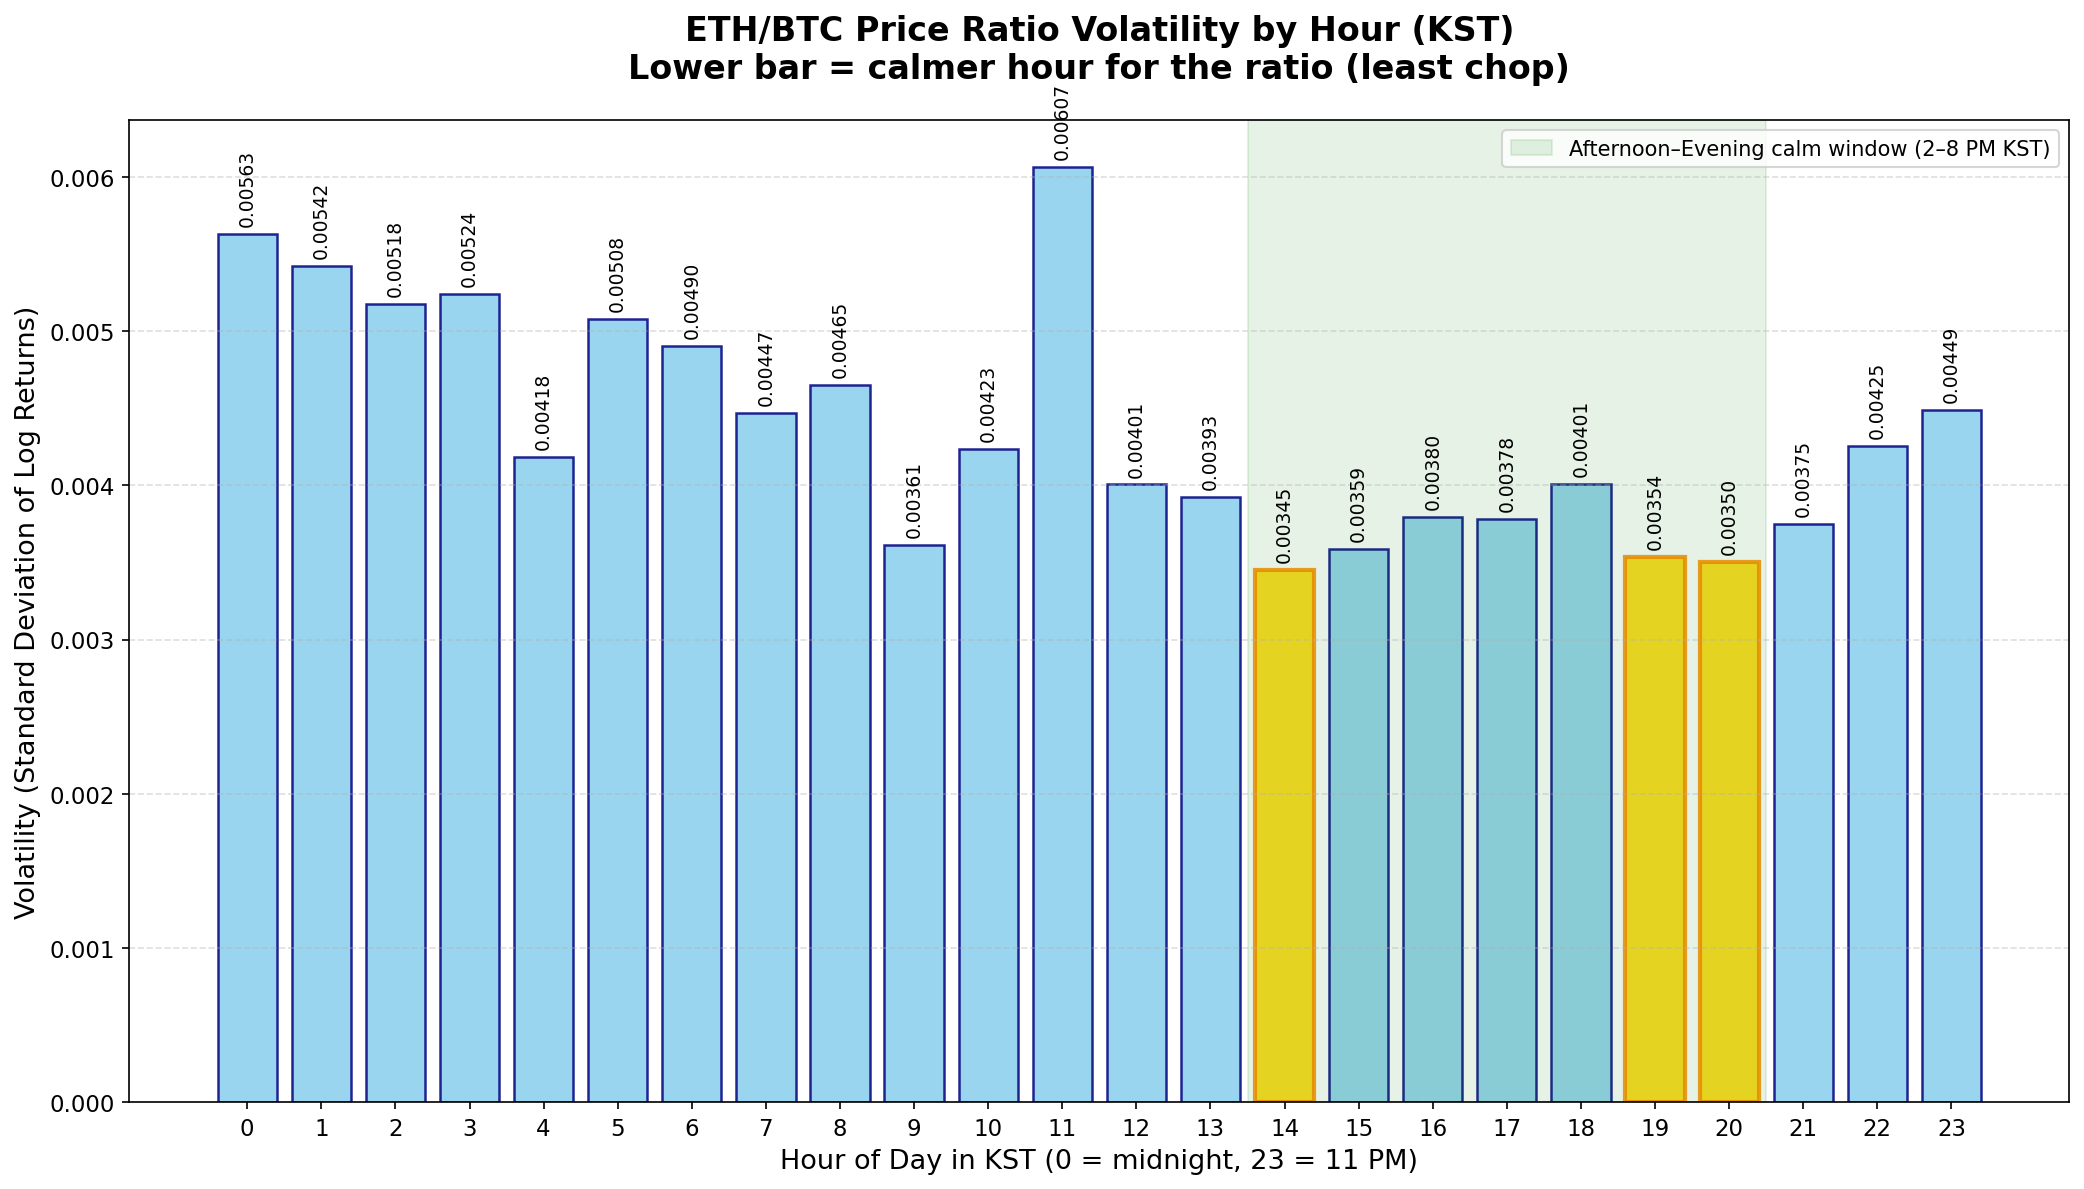
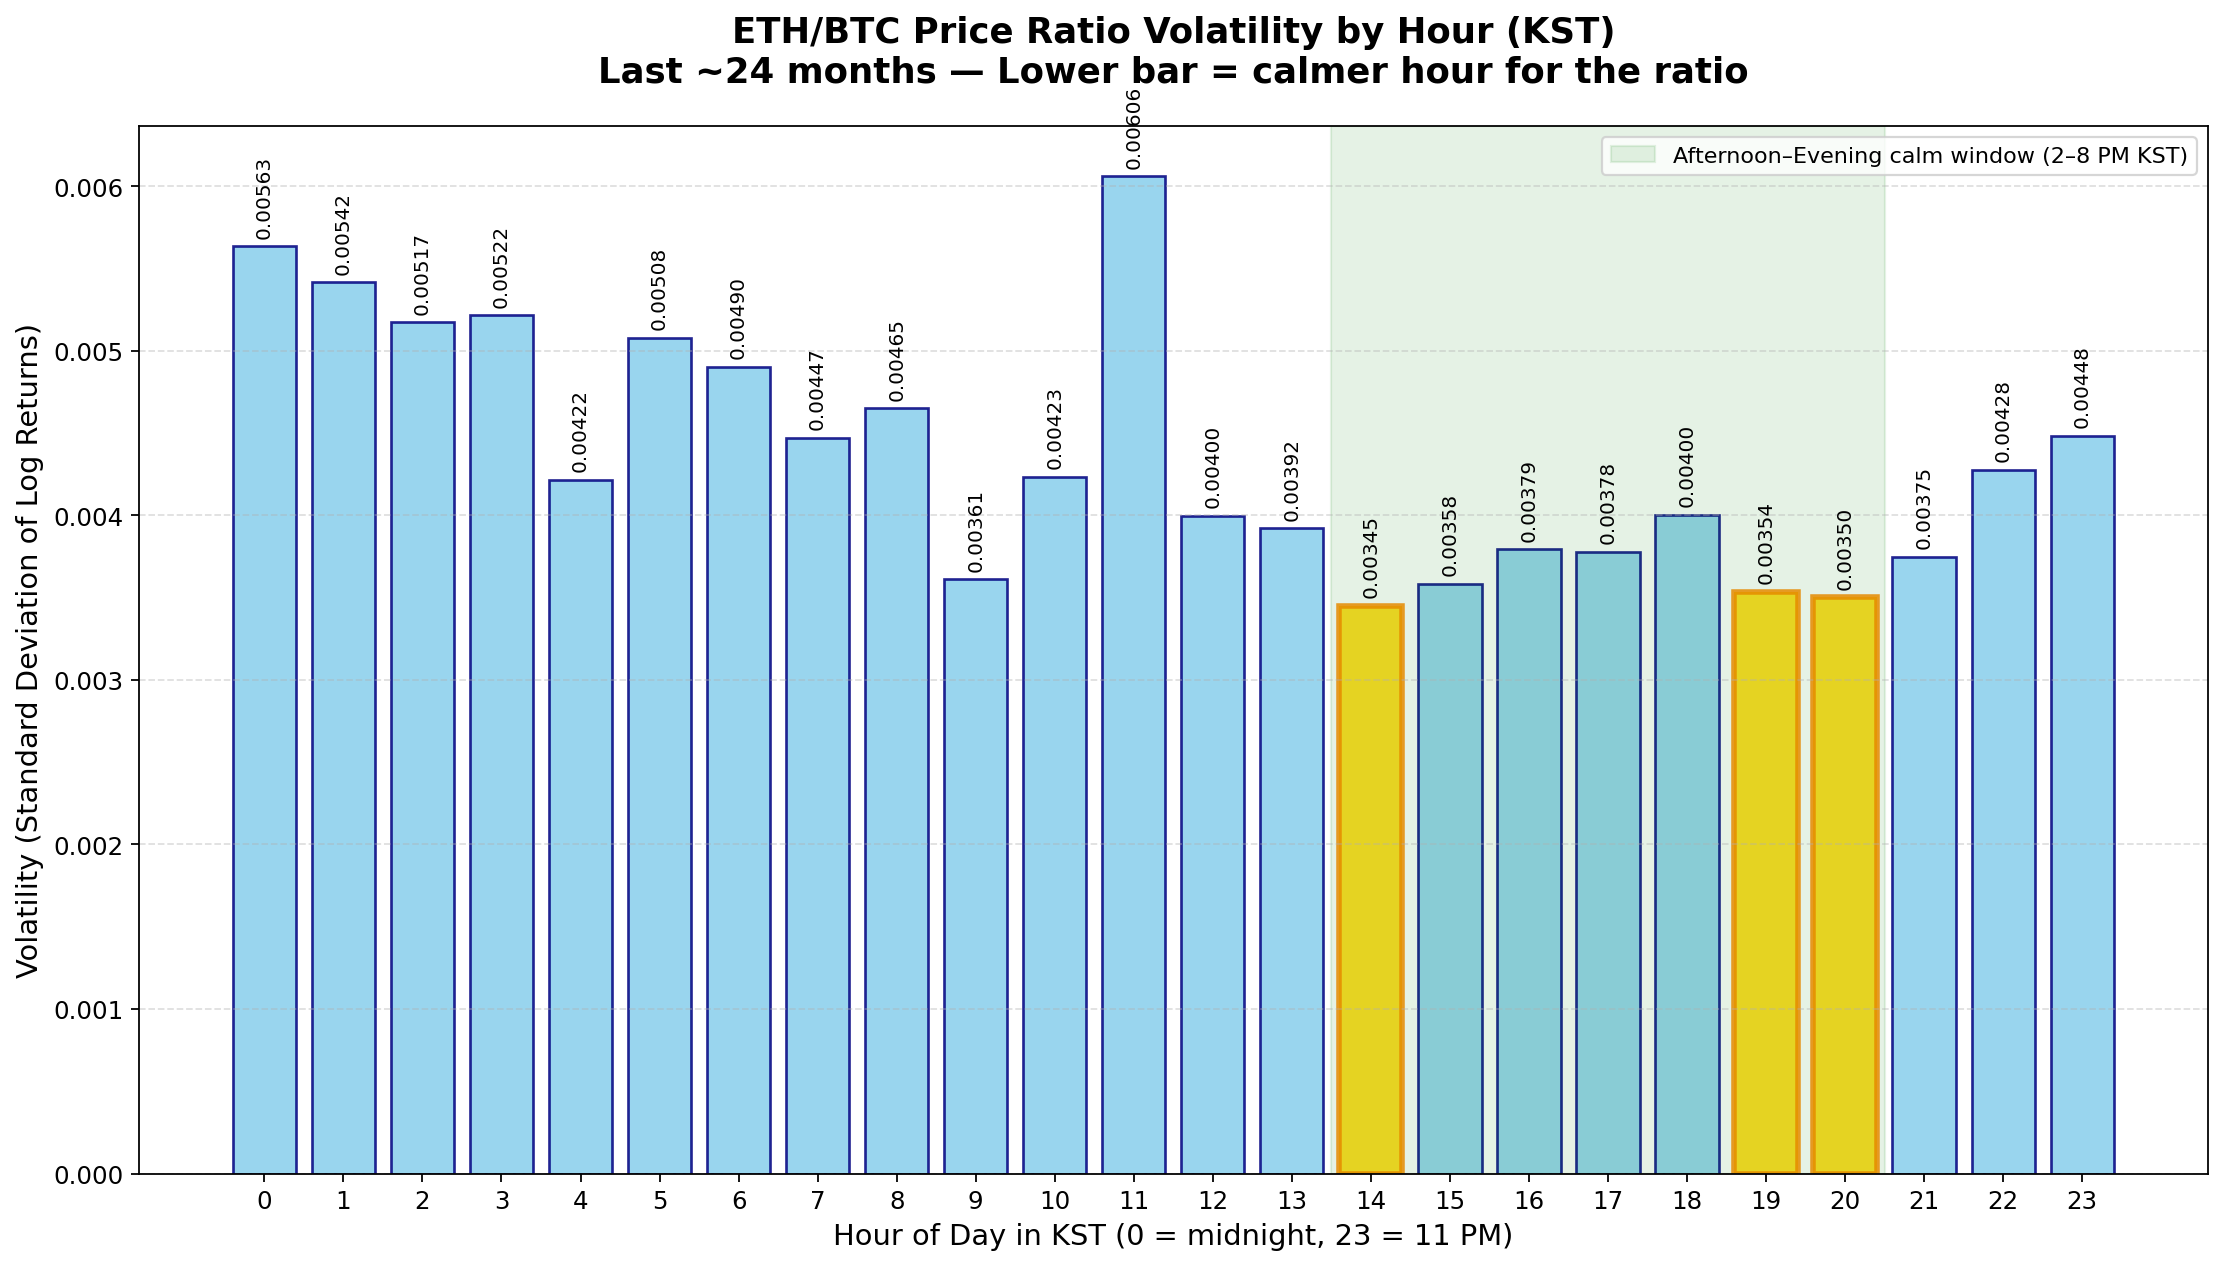
volatility check modularity

diff --git a/src/gecko_price_analysis/volatility_check.py b/src/gecko_price_analysis/volatility_check.py
@@ -2,21 +2,56 @@
 import pandas as pd
 import numpy as np
 import matplotlib.pyplot as plt
+import sys
+from pandas.tseries.offsets import DateOffset
 
-# Load from the fetched_data directory
-btc_df = pd.read_csv('fetched_data/btc_price_history.csv')
-eth_df = pd.read_csv('fetched_data/eth_price_history.csv')
+# ==================== CONFIG SECTION ====================
+# Default values (used when you run the script with no arguments)
+TOKEN1 = 'eth'      # numerator  (top of the ratio)
+TOKEN0 = 'btc'      # denominator (bottom of the ratio)
+N_MONTHS = 24       # how many months back from the latest data point
+# =======================================================
+
+# === CLI override (e.g. python volatility_check.py eth btc 24) ===
+if len(sys.argv) > 1:
+    TOKEN1 = sys.argv[1].lower().strip()
+if len(sys.argv) > 2:
+    TOKEN0 = sys.argv[2].lower().strip()
+if len(sys.argv) > 3:
+    try:
+        N_MONTHS = int(sys.argv[3])
+    except ValueError:
+        print(f"⚠  Invalid N_MONTHS argument, falling back to config default ({N_MONTHS})")
+
+print(f"🔍 Analyzing {TOKEN1.upper()}/{TOKEN0.upper()} ratio volatility "
+      f"(last ~{N_MONTHS} months, KST)")
+
+# === Load data ===
+token1_df = pd.read_csv(f'fetched_data/{TOKEN1}_price_history.csv')
+token0_df = pd.read_csv(f'fetched_data/{TOKEN0}_price_history.csv')
 
 # Parse datetimes
-btc_df['datetime'] = pd.to_datetime(btc_df['datetime'], format='mixed', utc=True)
-eth_df['datetime'] = pd.to_datetime(eth_df['datetime'], format='mixed', utc=True)
+for df in [token1_df, token0_df]:
+    df['datetime'] = pd.to_datetime(df['datetime'], format='mixed', utc=True)
 
-btc = btc_df.set_index('datetime').rename(columns={'price_usd': 'btc'}).sort_index()
-eth = eth_df.set_index('datetime').rename(columns={'price_usd': 'eth'}).sort_index()
+# === Filter to most recent N_MONTHS (from global latest date) ===
+if not token1_df.empty and not token0_df.empty:
+    latest_date = max(token1_df['datetime'].max(), token0_df['datetime'].max())
+    cutoff_date = latest_date - DateOffset(months=N_MONTHS)
+    
+    token1_df = token1_df[token1_df['datetime'] >= cutoff_date].copy()
+    token0_df = token0_df[token0_df['datetime'] >= cutoff_date].copy()
+    
+    print(f"📅 Data period used: {cutoff_date.date()} → {latest_date.date()} "
+          f"({len(token1_df)} rows for {TOKEN1}, {len(token0_df)} rows for {TOKEN0})")
 
-# Align prices
+# Set index and rename price column
+token1 = token1_df.set_index('datetime').rename(columns={'price_usd': TOKEN1}).sort_index()
+token0 = token0_df.set_index('datetime').rename(columns={'price_usd': TOKEN0}).sort_index()
+
+# === Align prices (same 30-min tolerance as before) ===
 combined = pd.merge_asof(
-    btc, eth,
+    token1, token0,
     left_index=True,
     right_index=True,
     direction='nearest',
@@ -24,25 +59,24 @@ combined = pd.merge_asof(
 )
 combined = combined.dropna()
 
-# Convert to KST + compute ratio volatility
+# === Convert to KST + compute ratio volatility ===
 combined.index = combined.index.tz_convert('Asia/Seoul')
-combined['ratio'] = combined['eth'] / combined['btc']
+combined['ratio'] = combined[TOKEN1] / combined[TOKEN0]
 combined['log_ret'] = np.log(combined['ratio']).diff()
 combined['hour'] = combined.index.hour
 
-# === RESULTS (same as before) ===
+# === RESULTS ===
 vol = combined.groupby('hour')['log_ret'].std().sort_values()
-print("Volatility (std of log returns) by KST hour (lowest → highest):\n", vol)
+print("\nVolatility (std of log returns) by KST hour (lowest → highest):\n", vol.round(6))
 
 stats = combined.groupby('hour')['log_ret'].agg(
     mean='mean', std='std', count='count', min='min', max='max'
 ).sort_values('std')
-print("\nFull stats table (sorted by lowest volatility):\n", stats)
+print("\nFull stats table (sorted by lowest volatility):\n", stats.round(6))
 
 # === CHART: exported to PNG only (no interactive window) ===
 plt.figure(figsize=(14, 8))
 
-# Bar chart for volatility (std)
 bars = plt.bar(vol.index, vol.values, color='skyblue', edgecolor='navy', alpha=0.85, linewidth=1.2)
 
 # Highlight the 3 calmest hours in gold
@@ -51,9 +85,10 @@ for hour in calmest_hours:
     idx = list(vol.index).index(hour)
     bars[idx].set_color('gold')
     bars[idx].set_edgecolor('darkorange')
-    bars[idx].set_linewidth(2)
+    bars[idx].set_linewidth(2.5)
 
-plt.title('ETH/BTC Price Ratio Volatility by Hour (KST)\nLower bar = calmer hour for the ratio (least chop)', 
+plt.title(f'{TOKEN1.upper()}/{TOKEN0.upper()} Price Ratio Volatility by Hour (KST)\n'
+          f'Last ~{N_MONTHS} months — Lower bar = calmer hour for the ratio',
           fontsize=16, fontweight='bold', pad=20)
 plt.xlabel('Hour of Day in KST (0 = midnight, 23 = 11 PM)', fontsize=13)
 plt.ylabel('Volatility (Standard Deviation of Log Returns)', fontsize=13)
@@ -67,11 +102,12 @@ for bar in bars:
     plt.text(bar.get_x() + bar.get_width()/2., height + 0.00005,
              f'{height:.5f}', ha='center', va='bottom', fontsize=9, rotation=90)
 
-# Optional: small annotation for the calmest window
+# Optional calm window annotation (still useful for any pair)
 plt.axvspan(13.5, 20.5, alpha=0.1, color='green', label='Afternoon–Evening calm window (2–8 PM KST)')
 plt.legend(loc='upper right')
 
 plt.tight_layout()
-plt.savefig('eth_btc_kst_volatility.png', dpi=150, bbox_inches='tight')
+filename = f'{TOKEN1.lower()}_{TOKEN0.lower()}_kst_volatility.png'
+plt.savefig(filename, dpi=160, bbox_inches='tight')
 
-print("\n✅ Chart exported as 'eth_btc_kst_volatility.png' (DPI 150) in your current folder!")
+print(f"\n✅ Chart exported as '{filename}' (DPI 160) in your current folder!")
